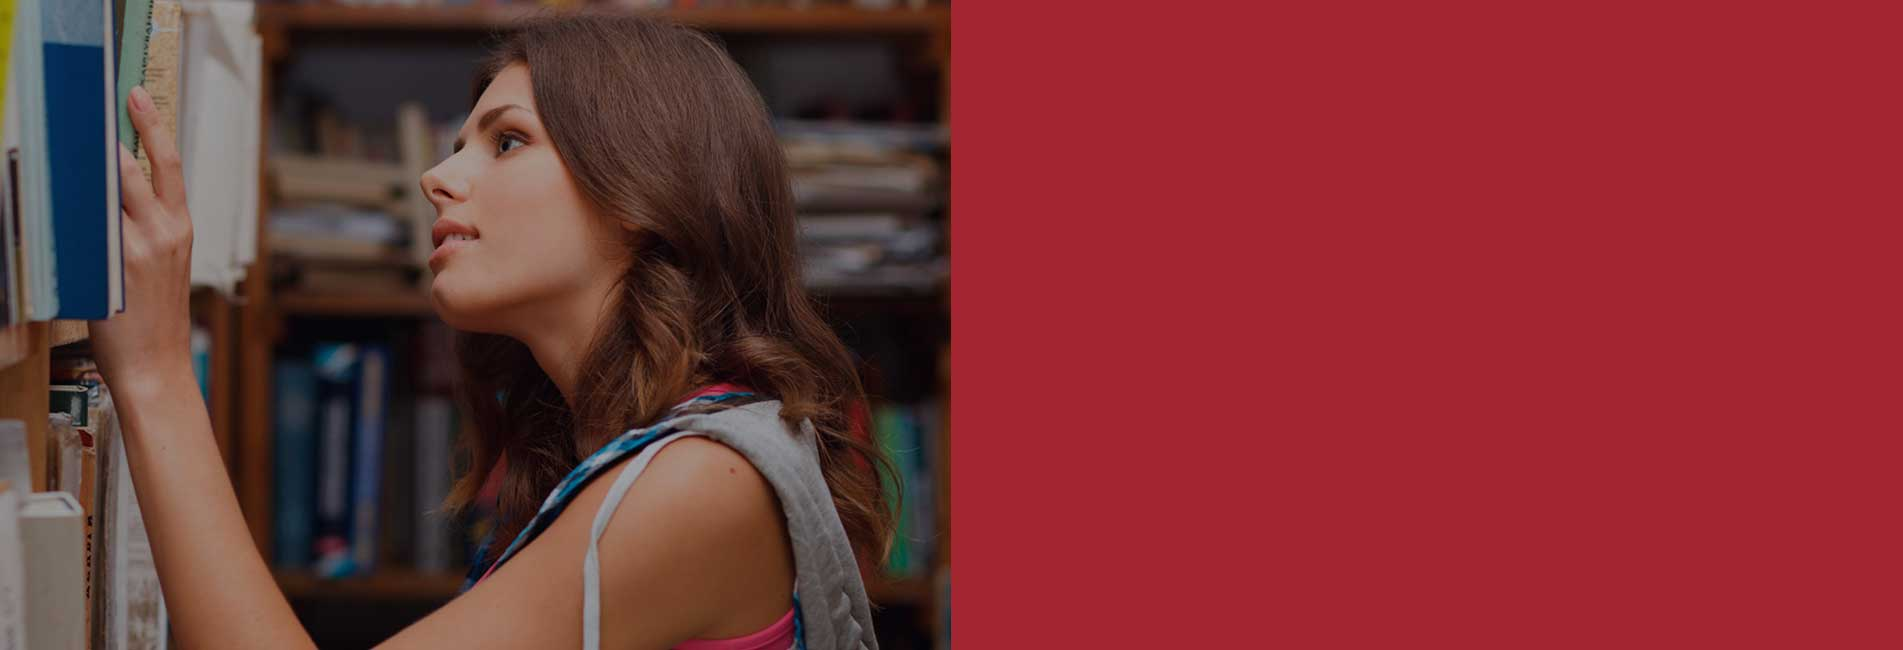
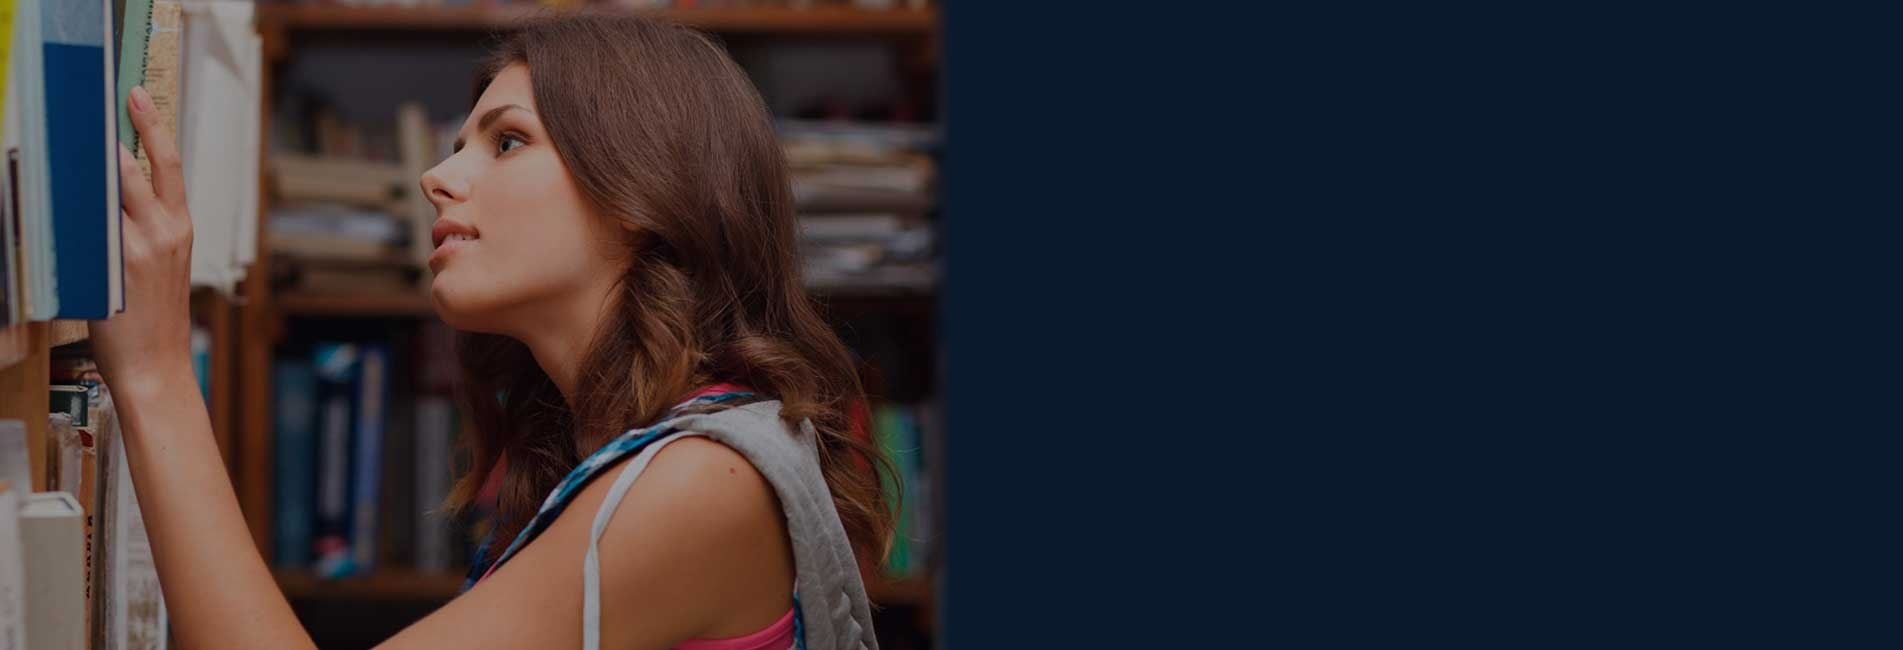
style(tour): remove red background from campus tour section and replace with deep royal navy

diff --git a/index.html b/index.html
@@ -47,7 +47,7 @@
 #ytc6ac601518bdd017255128301791361361 .yt-counter-icon{float:left; margin-right:10px}#ytc6ac601518bdd017255128301791361361 {background-color:transparent;border:0px solid #DDD;}#ytc6ac601518bdd017255128301791361361 .yt-counter-number {font-size: 22px; color:#fff; }#ytc6ac601518bdd017255128301791361361 .yt-counter-text {color:#fff; font-size: 22px;}#ytc6ac601518bdd017255128301791361361 i {color:#444;font-size:22px; line-height: 1.42857;}#ytc6ac601518bdd017255128301791361361 {overflow:auto;}
 #ytc6ac601518bee55740913941791361361 .yt-counter-icon{float:left; margin-right:10px}#ytc6ac601518bee55740913941791361361 {background-color:transparent;border:0px solid #DDD;}#ytc6ac601518bee55740913941791361361 .yt-counter-number {font-size: 22px; color:#fff; }#ytc6ac601518bee55740913941791361361 .yt-counter-text {color:#fff; font-size: 22px;}#ytc6ac601518bee55740913941791361361 i {color:#444;font-size:22px; line-height: 1.42857;}#ytc6ac601518bee55740913941791361361 {overflow:auto;}
 #yt_tes6ac601518cf5411189553531791361361{background:url();display:block;}#yt_tes6ac601518cf5411189553531791361361 .testimonial-title{color:#1a1c19; text-align:center}#yt_tes6ac601518cf5411189553531791361361 .item{border:0px solid #ccc; }#yt_tes6ac601518cf5411189553531791361361 .item .item-img-avatar{border-radius:50%; width:auto; margin:0 auto; max-width:150px; max-height:150px}
-.sp-page-builder .page-content #sp-slide{padding-top: 0px;padding-right: 0px;padding-bottom: 0px;padding-left: 0px;margin-top: 0px;margin-right: 0px;margin-bottom: 0px;margin-left: 0px;}#column-id-1562055850126{box-shadow: 0 0 0 0 #fff;}@media (min-width: 768px) and (max-width: 991px) {#sppb-addon-1562055937053 {}}@media (max-width: 767px) {#sppb-addon-1562055937053 {}}.sp-page-builder .page-content #sp-find-course{padding-top: 0px;padding-right: 0px;padding-bottom: 0px;padding-left: 0px;margin-top: 12px;margin-right: 12px;margin-bottom: 12px;margin-left: 12px;background-color:#f0f0f0;}@media (min-width: 768px) and (max-width: 991px) { .sp-page-builder .page-content #sp-find-course{padding-top: 0px;padding-right: 0px;padding-bottom: 50px;padding-left: 0px;} }@media (max-width: 767px) { .sp-page-builder .page-content #sp-find-course{padding-top: 0px;padding-right: 0px;padding-bottom: 40px;padding-left: 0px;} }#column-id-1562056026520{box-shadow: 0 0 0 0 #fff;}@media (min-width: 768px) and (max-width: 991px) {#sppb-addon-1562056026525 {}}@media (max-width: 767px) {#sppb-addon-1562056026525 {}}#column-id-1562056026521{box-shadow: 0 0 0 0 #fff;}@media (min-width: 768px) and (max-width: 991px) {#sppb-addon-1562056026528 {}}@media (max-width: 767px) {#sppb-addon-1562056026528 {}}.sp-page-builder .page-content #section-id-1562059641286{padding-top: 75px;padding-right: 0px;padding-bottom: 70px;padding-left: 0px;margin-top: 0px;margin-right: 0px;margin-bottom: 0px;margin-left: 0px;color:#ffffff;background-color:#272f54;}@media (min-width: 768px) and (max-width: 991px) { .sp-page-builder .page-content #section-id-1562059641286{padding-top: 50px;padding-right: 0px;padding-bottom: 50px;padding-left: 0px;} }@media (max-width: 767px) { .sp-page-builder .page-content #section-id-1562059641286{padding-top: 50px;padding-right: 0px;padding-bottom: 50px;padding-left: 0px;} }#column-id-1562059641285{box-shadow: 0 0 0 0 #fff;}@media (min-width: 768px) and (max-width: 991px) {#sppb-addon-1562059976051 {}}@media (max-width: 767px) {#sppb-addon-1562059976051 {}}.sp-page-builder .page-content #upcoming-event{padding-top: 60px;padding-right: 0px;padding-bottom: 40px;padding-left: 0px;margin-top: 0px;margin-right: 0px;margin-bottom: 0px;margin-left: 0px;}.sp-page-builder .page-content #upcoming-event .sppb-section-title .sppb-title-heading {font-size:40px;line-height: 40px;margin-bottom:60px;}.sp-page-builder .page-content #upcoming-event .sppb-section-title .sppb-title-subheading {font-size:14px;}#column-id-1562215089395{box-shadow: 0 0 0 0 #fff;}@media (min-width: 768px) and (max-width: 991px) {#sppb-addon-1563173224028 {}}@media (max-width: 767px) {#sppb-addon-1563173224028 {}}.sp-page-builder .page-content #section-id-1562126461465{padding-top: 0px;padding-right: 0px;padding-bottom: 0px;padding-left: 0px;margin-top: 0px;margin-right: 0px;margin-bottom: 0px;margin-left: 0px;}#column-id-1562126461464{box-shadow: 0 0 0 0 #fff;}@media (min-width: 768px) and (max-width: 991px) {#sppb-addon-1562126461468 {}}@media (max-width: 767px) {#sppb-addon-1562126461468 {}}.sp-page-builder .page-content #video-tour-area{padding-top: 0px;padding-right: 0px;padding-bottom: 0px;padding-left: 0px;margin-top: 0px;margin-right: 0px;margin-bottom: 0px;margin-left: 0px;background-image:url(images/img_parallax.jpg);background-repeat:no-repeat;background-size:cover;background-attachment:fixed;background-position:50% 50%;}#column-id-1562208262468{box-shadow: 0 0 0 0 #fff;}@media (min-width: 768px) and (max-width: 991px) {#sppb-addon-1563265851449 {}}@media (max-width: 767px) {#sppb-addon-1563265851449 {}}#column-id-1562208262469{padding-top: 75px;padding-right: 250px;padding-bottom: 136px;padding-left: 91px;box-shadow: 0 0 0 0 #fff;background-color:#a22531;}@media (min-width: 768px) and (max-width: 991px) { #column-id-1562208262469{padding-top: 0px;padding-right: 0px;padding-bottom: 0px;padding-left: 0px;} }@media (max-width: 767px) { #column-id-1562208262469{padding-top: 0px;padding-right: 0px;padding-bottom: 0px;padding-left: 0px;} }@media (min-width: 768px) and (max-width: 991px) {#sppb-addon-1562208262476 {}}@media (max-width: 767px) {#sppb-addon-1562208262476 {}}.sp-page-builder .page-content #section-id-1660887461209{padding-top: 45px;padding-right: 0px;padding-bottom: 70px;padding-left: 0px;margin-top: 0px;margin-right: 0px;margin-bottom: 0px;margin-left: 0px;color:#ffffff;background-color:#272f54;}@media (min-width: 768px) and (max-width: 991px) { .sp-page-builder .page-content #section-id-1660887461209{padding-top: 50px;padding-right: 0px;padding-bottom: 50px;padding-left: 0px;} }@media (max-width: 767px) { .sp-page-builder .page-content #section-id-1660887461209{padding-top: 50px;padding-right: 0px;padding-bottom: 50px;padding-left: 0px;} }#column-id-1660887461210{box-shadow: 0 0 0 0 #fff;}@media (min-width: 768px) and (max-width: 991px) {#sppb-addon-1660887461211 {}}@media (max-width: 767px) {#sppb-addon-1660887461211 {}}.sp-page-builder .page-content #courses-free{padding-top: 0px;padding-right: 0px;padding-bottom: 0px;padding-left: 0px;margin-top: 0px;margin-right: 0px;margin-bottom: 0px;margin-left: 0px;background-image:url(images/img_parallax2.jpg);background-repeat:no-repeat;background-size:cover;background-attachment:fixed;background-position:50% 50%;}#column-id-1562223643563{padding-top: 0px;padding-right: 0px;padding-bottom: 0px;padding-left: 0px;box-shadow: 0 0 0 0 #fff;}@media (min-width: 768px) and (max-width: 991px) { #column-id-1562223643563{padding-top: 0px;padding-right: 0px;padding-bottom: 0px;padding-left: 0px;} }@media (max-width: 767px) { #column-id-1562223643563{padding-top: 0px;padding-right: 0px;padding-bottom: 0px;padding-left: 0px;} }@media (min-width: 768px) and (max-width: 991px) {#sppb-addon-1563265851444 {}}@media (max-width: 767px) {#sppb-addon-1563265851444 {}}#column-id-1562223643565{padding-top: 109px;padding-right: 350px;padding-bottom: 102px;padding-left: 90px;color:#fff;background-color:#272f54;}@media (min-width: 768px) and (max-width: 991px) {#sppb-addon-1562225107639 {}}@media (max-width: 767px) {#sppb-addon-1562225107639 {}}.sp-page-builder .page-content #testimonial-area{padding-top: 65px;padding-right: 0px;padding-bottom: 44px;padding-left: 0px;margin-top: 0px;margin-right: 0px;margin-bottom: 0px;margin-left: 0px;background-image:url(images/bg-testimonial.jpg);background-repeat:no-repeat;background-size:cover;background-attachment:fixed;background-position:50% 50%;}.sp-page-builder .page-content #testimonial-area .sppb-section-title .sppb-title-heading {font-size:40px;line-height: 40px;margin-bottom:55px;}@media (min-width: 768px) and (max-width: 991px) { .sp-page-builder .page-content #testimonial-area .sppb-section-title .sppb-title-heading {font-size:34px;line-height: 34px;margin-bottom:48px;}}@media (max-width: 767px) { .sp-page-builder .page-content #testimonial-area .sppb-section-title .sppb-title-heading {font-size:34px;line-height: 34px;margin-bottom:48px;}}#column-id-1562234051665{box-shadow: 0 0 0 0 #fff;}@media (min-width: 768px) and (max-width: 991px) {#sppb-addon-1562234051669 {}}@media (max-width: 767px) {#sppb-addon-1562234051669 {}}.sp-page-builder .page-content #blog-area{padding-top: 0px;padding-right: 0px;padding-bottom: 0px;padding-left: 0px;margin-top: 0px;margin-right: 0px;margin-bottom: 0px;margin-left: 0px;background-color:#f0f0f0;}#column-id-1562291975261{box-shadow: 0 0 0 0 #fff;}@media (min-width: 768px) and (max-width: 991px) {#sppb-addon-1562291975265 {}}@media (max-width: 767px) {#sppb-addon-1562291975265 {}}
+.sp-page-builder .page-content #sp-slide{padding-top: 0px;padding-right: 0px;padding-bottom: 0px;padding-left: 0px;margin-top: 0px;margin-right: 0px;margin-bottom: 0px;margin-left: 0px;}#column-id-1562055850126{box-shadow: 0 0 0 0 #fff;}@media (min-width: 768px) and (max-width: 991px) {#sppb-addon-1562055937053 {}}@media (max-width: 767px) {#sppb-addon-1562055937053 {}}.sp-page-builder .page-content #sp-find-course{padding-top: 0px;padding-right: 0px;padding-bottom: 0px;padding-left: 0px;margin-top: 12px;margin-right: 12px;margin-bottom: 12px;margin-left: 12px;background-color:#f0f0f0;}@media (min-width: 768px) and (max-width: 991px) { .sp-page-builder .page-content #sp-find-course{padding-top: 0px;padding-right: 0px;padding-bottom: 50px;padding-left: 0px;} }@media (max-width: 767px) { .sp-page-builder .page-content #sp-find-course{padding-top: 0px;padding-right: 0px;padding-bottom: 40px;padding-left: 0px;} }#column-id-1562056026520{box-shadow: 0 0 0 0 #fff;}@media (min-width: 768px) and (max-width: 991px) {#sppb-addon-1562056026525 {}}@media (max-width: 767px) {#sppb-addon-1562056026525 {}}#column-id-1562056026521{box-shadow: 0 0 0 0 #fff;}@media (min-width: 768px) and (max-width: 991px) {#sppb-addon-1562056026528 {}}@media (max-width: 767px) {#sppb-addon-1562056026528 {}}.sp-page-builder .page-content #section-id-1562059641286{padding-top: 75px;padding-right: 0px;padding-bottom: 70px;padding-left: 0px;margin-top: 0px;margin-right: 0px;margin-bottom: 0px;margin-left: 0px;color:#ffffff;background-color:#272f54;}@media (min-width: 768px) and (max-width: 991px) { .sp-page-builder .page-content #section-id-1562059641286{padding-top: 50px;padding-right: 0px;padding-bottom: 50px;padding-left: 0px;} }@media (max-width: 767px) { .sp-page-builder .page-content #section-id-1562059641286{padding-top: 50px;padding-right: 0px;padding-bottom: 50px;padding-left: 0px;} }#column-id-1562059641285{box-shadow: 0 0 0 0 #fff;}@media (min-width: 768px) and (max-width: 991px) {#sppb-addon-1562059976051 {}}@media (max-width: 767px) {#sppb-addon-1562059976051 {}}.sp-page-builder .page-content #upcoming-event{padding-top: 60px;padding-right: 0px;padding-bottom: 40px;padding-left: 0px;margin-top: 0px;margin-right: 0px;margin-bottom: 0px;margin-left: 0px;}.sp-page-builder .page-content #upcoming-event .sppb-section-title .sppb-title-heading {font-size:40px;line-height: 40px;margin-bottom:60px;}.sp-page-builder .page-content #upcoming-event .sppb-section-title .sppb-title-subheading {font-size:14px;}#column-id-1562215089395{box-shadow: 0 0 0 0 #fff;}@media (min-width: 768px) and (max-width: 991px) {#sppb-addon-1563173224028 {}}@media (max-width: 767px) {#sppb-addon-1563173224028 {}}.sp-page-builder .page-content #section-id-1562126461465{padding-top: 0px;padding-right: 0px;padding-bottom: 0px;padding-left: 0px;margin-top: 0px;margin-right: 0px;margin-bottom: 0px;margin-left: 0px;}#column-id-1562126461464{box-shadow: 0 0 0 0 #fff;}@media (min-width: 768px) and (max-width: 991px) {#sppb-addon-1562126461468 {}}@media (max-width: 767px) {#sppb-addon-1562126461468 {}}.sp-page-builder .page-content #video-tour-area{padding-top: 0px;padding-right: 0px;padding-bottom: 0px;padding-left: 0px;margin-top: 0px;margin-right: 0px;margin-bottom: 0px;margin-left: 0px;background-image:url(images/img_parallax.jpg);background-repeat:no-repeat;background-size:cover;background-attachment:fixed;background-position:50% 50%;}#column-id-1562208262468{box-shadow: 0 0 0 0 #fff;}@media (min-width: 768px) and (max-width: 991px) {#sppb-addon-1563265851449 {}}@media (max-width: 767px) {#sppb-addon-1563265851449 {}}#column-id-1562208262469{padding-top: 75px;padding-right: 250px;padding-bottom: 136px;padding-left: 91px;box-shadow: 0 0 0 0 #fff;background-color:#0B192C;}@media (min-width: 768px) and (max-width: 991px) { #column-id-1562208262469{padding-top: 0px;padding-right: 0px;padding-bottom: 0px;padding-left: 0px;} }@media (max-width: 767px) { #column-id-1562208262469{padding-top: 0px;padding-right: 0px;padding-bottom: 0px;padding-left: 0px;} }@media (min-width: 768px) and (max-width: 991px) {#sppb-addon-1562208262476 {}}@media (max-width: 767px) {#sppb-addon-1562208262476 {}}.sp-page-builder .page-content #section-id-1660887461209{padding-top: 45px;padding-right: 0px;padding-bottom: 70px;padding-left: 0px;margin-top: 0px;margin-right: 0px;margin-bottom: 0px;margin-left: 0px;color:#ffffff;background-color:#272f54;}@media (min-width: 768px) and (max-width: 991px) { .sp-page-builder .page-content #section-id-1660887461209{padding-top: 50px;padding-right: 0px;padding-bottom: 50px;padding-left: 0px;} }@media (max-width: 767px) { .sp-page-builder .page-content #section-id-1660887461209{padding-top: 50px;padding-right: 0px;padding-bottom: 50px;padding-left: 0px;} }#column-id-1660887461210{box-shadow: 0 0 0 0 #fff;}@media (min-width: 768px) and (max-width: 991px) {#sppb-addon-1660887461211 {}}@media (max-width: 767px) {#sppb-addon-1660887461211 {}}.sp-page-builder .page-content #courses-free{padding-top: 0px;padding-right: 0px;padding-bottom: 0px;padding-left: 0px;margin-top: 0px;margin-right: 0px;margin-bottom: 0px;margin-left: 0px;background-image:url(images/img_parallax2.jpg);background-repeat:no-repeat;background-size:cover;background-attachment:fixed;background-position:50% 50%;}#column-id-1562223643563{padding-top: 0px;padding-right: 0px;padding-bottom: 0px;padding-left: 0px;box-shadow: 0 0 0 0 #fff;}@media (min-width: 768px) and (max-width: 991px) { #column-id-1562223643563{padding-top: 0px;padding-right: 0px;padding-bottom: 0px;padding-left: 0px;} }@media (max-width: 767px) { #column-id-1562223643563{padding-top: 0px;padding-right: 0px;padding-bottom: 0px;padding-left: 0px;} }@media (min-width: 768px) and (max-width: 991px) {#sppb-addon-1563265851444 {}}@media (max-width: 767px) {#sppb-addon-1563265851444 {}}#column-id-1562223643565{padding-top: 109px;padding-right: 350px;padding-bottom: 102px;padding-left: 90px;color:#fff;background-color:#272f54;}@media (min-width: 768px) and (max-width: 991px) {#sppb-addon-1562225107639 {}}@media (max-width: 767px) {#sppb-addon-1562225107639 {}}.sp-page-builder .page-content #testimonial-area{padding-top: 65px;padding-right: 0px;padding-bottom: 44px;padding-left: 0px;margin-top: 0px;margin-right: 0px;margin-bottom: 0px;margin-left: 0px;background-image:url(images/bg-testimonial.jpg);background-repeat:no-repeat;background-size:cover;background-attachment:fixed;background-position:50% 50%;}.sp-page-builder .page-content #testimonial-area .sppb-section-title .sppb-title-heading {font-size:40px;line-height: 40px;margin-bottom:55px;}@media (min-width: 768px) and (max-width: 991px) { .sp-page-builder .page-content #testimonial-area .sppb-section-title .sppb-title-heading {font-size:34px;line-height: 34px;margin-bottom:48px;}}@media (max-width: 767px) { .sp-page-builder .page-content #testimonial-area .sppb-section-title .sppb-title-heading {font-size:34px;line-height: 34px;margin-bottom:48px;}}#column-id-1562234051665{box-shadow: 0 0 0 0 #fff;}@media (min-width: 768px) and (max-width: 991px) {#sppb-addon-1562234051669 {}}@media (max-width: 767px) {#sppb-addon-1562234051669 {}}.sp-page-builder .page-content #blog-area{padding-top: 0px;padding-right: 0px;padding-bottom: 0px;padding-left: 0px;margin-top: 0px;margin-right: 0px;margin-bottom: 0px;margin-left: 0px;background-color:#f0f0f0;}#column-id-1562291975261{box-shadow: 0 0 0 0 #fff;}@media (min-width: 768px) and (max-width: 991px) {#sppb-addon-1562291975265 {}}@media (max-width: 767px) {#sppb-addon-1562291975265 {}}
 body{font-family: 'Muli', sans-serif;font-size: 14px;font-weight: 300;}
 
 .logo-image {height:90px;}.logo-image-phone {height:90px;}

diff --git a/assets/css/elite-dsbs.css b/assets/css/elite-dsbs.css
@@ -2276,6 +2276,11 @@ ul, ol {
   font-size: 0.875rem;
 }
 
+/* Campus Tour - Red background replaced with Deep Royal Navy */
+#column-id-1562208262469 {
+  background-color: var(--elite-navy-deep, #0B192C) !important;
+}
+
 /* ==========================================================================
    15. RESPONSIVE MEDIA QUERIES
    ========================================================================== */
